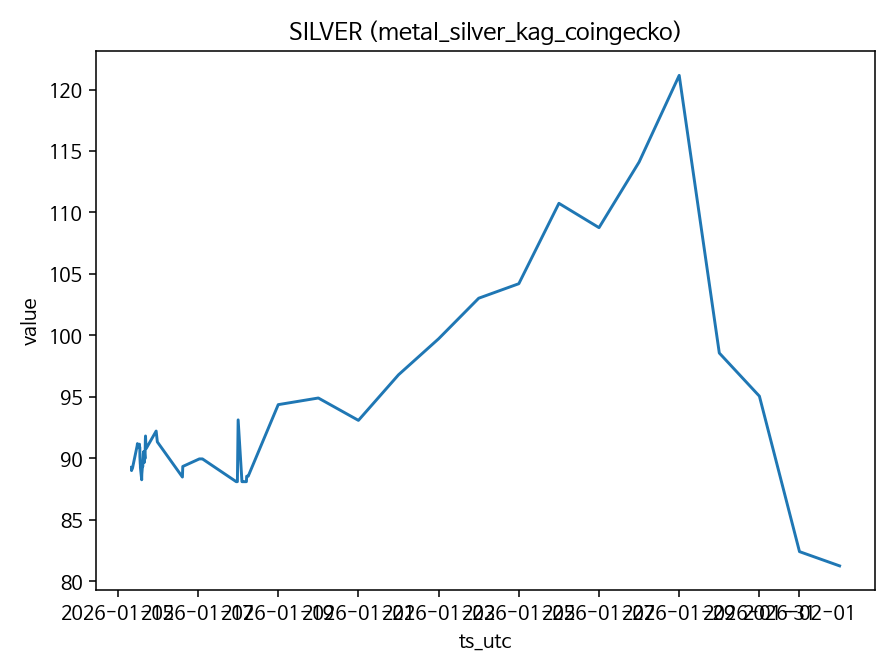
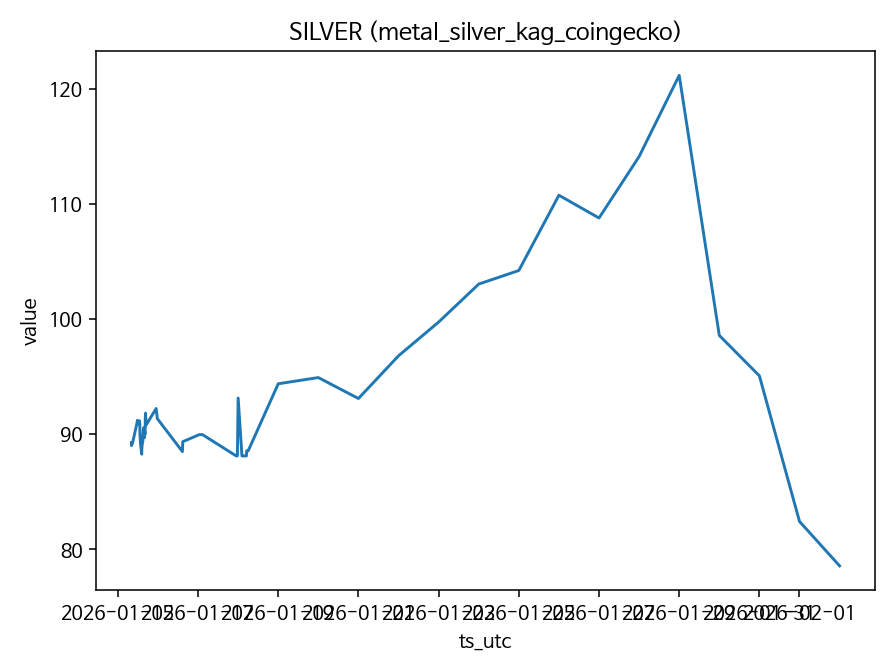
docs: Update generated docs from verification runs

diff --git a/data/issuesignal/index.html b/data/issuesignal/index.html
@@ -132,10 +132,10 @@
         <div>
             <div class="header-meta">
                 <span>DATA: 2026-02-02</span>
-                <span>RUN: 2026-02-02 13:45:30</span>
+                <span>RUN: 2026-02-02 13:10:00</span>
             </div>
             <div class="header-meta" style="margin-top:2px;">
-                <span>커밋: 90b3348</span>
+                <span>커밋: eaa2ca8</span>
                 <span>엔진: v2.5.1</span>
             </div>
         </div>

diff --git a/issuesignal/index.html b/issuesignal/index.html
@@ -132,10 +132,10 @@
         <div>
             <div class="header-meta">
                 <span>DATA: 2026-02-02</span>
-                <span>RUN: 2026-02-02 13:45:30</span>
+                <span>RUN: 2026-02-02 13:10:00</span>
             </div>
             <div class="header-meta" style="margin-top:2px;">
-                <span>커밋: 90b3348</span>
+                <span>커밋: eaa2ca8</span>
                 <span>엔진: v2.5.1</span>
             </div>
         </div>

diff --git a/data/reports/2026/02/02/decision_dashboard.md b/data/reports/2026/02/02/decision_dashboard.md
@@ -83,9 +83,9 @@
 - **Count**: 40
 - **Type Breakdown**: NEWS: 40
 - **Samples (Top 3)**:
-  - [NEWS] [속보]코스피 매도사이드카 발동, 5% 폭락해 5000선 무너져 - 경향신문 (Google_News_KR_Economy)
-  - [NEWS] 대출 막으니 “국평만 더 튀었다”… 강남 18억·강북 11억 ‘역대급’ [수민이가 궁금해요] - 세계일보 (Google_News_KR_Economy)
-  - [NEWS] 금, 은 원자재 가격 폭락과 비트코인 하락, 다음주 미국, 한국증시 전망 - 네이버 프리미엄콘텐츠 (Google_News_KR_Economy)
+  - [NEWS] 비트코인 급락에 트레저리 기업 주가 흔들…차기 연준 의장 ‘친코인’ 가능성에 세일러는 “더 산다” - 조선일보 (Google_News_KR_Economy)
+  - [NEWS] 서울 중소형 아파트값, 한강 이남에선 평균 18억 넘었다 - 경향신문 (Google_News_KR_Economy)
+  - [NEWS] 금·은 급락 부른 ‘케빈 워시 효과’…조기 금리인하 베팅 점화 - mstoday.co.kr (Google_News_KR_Economy)
 
 
 ### 🌱 TOPIC SEEDS (STRUCTURAL)
@@ -187,37 +187,26 @@
 
 | Fact Anchor | Structural Reason | Confidence |
 |---|---|---|
-| [속보]코스피 매도사이드카 발동, 5% 폭락해 5000선 무너져 - 경향신문 | Structural implication: '[속보]코스피 매도사이드카 발동, 5% 폭락해 5000선 무너져 - 경향신문' suggests a shift in NEWS dynamics. | LOW |
-| 대출 막으니 “국평만 더 튀었다”… 강남 18억·강북 11억 ‘역대급’ [수민이가 궁금해요] - 세계일보 | Structural implication: '대출 막으니 “국평만 더 튀었다”… 강남 18억·강북 11억 ‘역대급’ [수민이가 궁금해요] - 세계일보' suggests a shift in NEWS dynamics. | LOW |
-| 금, 은 원자재 가격 폭락과 비트코인 하락, 다음주 미국, 한국증시 전망 - 네이버 프리미엄콘텐츠 | Structural implication: '금, 은 원자재 가격 폭락과 비트코인 하락, 다음주 미국, 한국증시 전망 - 네이버 프리미엄콘텐츠' suggests a shift in NEWS dynamics. | LOW |
-| “큰손들은 이미 발 뺐다”…비트코인, 8만 달러도 무너진 이유 [잇슈 머니] - KBS 뉴스 | Structural implication: '“큰손들은 이미 발 뺐다”…비트코인, 8만 달러도 무너진 이유 [잇슈 머니] - KBS 뉴스' suggests a shift in NEWS dynamics. | LOW |
-| ‘워시 충격’에…코스피 확 밀리고, 환율은 1450원대로 급등 - 한겨레 | Structural implication: '‘워시 충격’에…코스피 확 밀리고, 환율은 1450원대로 급등 - 한겨레' suggests a shift in NEWS dynamics. | LOW |
+| 비트코인 급락에 트레저리 기업 주가 흔들…차기 연준 의장 ‘친코인’ 가능성에 세일러는 “더 산다” - 조선일보 | Structural implication: '비트코인 급락에 트레저리 기업 주가 흔들…차기 연준 의장 ‘친코인’ 가능성에 세일러는 “더 산다” - 조선일보' suggests a shift in NEWS dynamics. | LOW |
+| 서울 중소형 아파트값, 한강 이남에선 평균 18억 넘었다 - 경향신문 | Structural implication: '서울 중소형 아파트값, 한강 이남에선 평균 18억 넘었다 - 경향신문' suggests a shift in NEWS dynamics. | LOW |
+| 금·은 급락 부른 ‘케빈 워시 효과’…조기 금리인하 베팅 점화 - mstoday.co.kr | Structural implication: '금·은 급락 부른 ‘케빈 워시 효과’…조기 금리인하 베팅 점화 - mstoday.co.kr' suggests a shift in NEWS dynamics. | LOW |
+| 코스피·코스닥 동반 급락…환율 1,450원대로 - 연합뉴스TV | Structural implication: '코스피·코스닥 동반 급락…환율 1,450원대로 - 연합뉴스TV' suggests a shift in NEWS dynamics. | LOW |
+| “1월 주도주가 상반기 휩쓴다”…韓 반도체·자동차 ‘비중 확대’ - 매일경제 | Structural implication: '“1월 주도주가 상반기 휩쓴다”…韓 반도체·자동차 ‘비중 확대’ - 매일경제' suggests a shift in NEWS dynamics. | LOW |
 | 4일 만에 17% 폭등한 코스닥… 종목 대신 ‘레버리지’에 뭉칫돈 쏠린다 - 조선비즈 - Chosunbiz | Structural implication: '4일 만에 17% 폭등한 코스닥… 종목 대신 ‘레버리지’에 뭉칫돈 쏠린다 - 조선비즈 - Chosunbiz' suggests a shift in NEWS dynamics. | LOW |
+| ‘워시 충격’에…코스피 확 밀리고, 환율은 1450원대로 급등 - 한겨레 | Structural implication: '‘워시 충격’에…코스피 확 밀리고, 환율은 1450원대로 급등 - 한겨레' suggests a shift in NEWS dynamics. | LOW |
 | ‘지역별 전기요금’ 도입 방안 연내 마련…1분기 중 산업용 전기요금 개편 - 부산일보 | Structural implication: '‘지역별 전기요금’ 도입 방안 연내 마련…1분기 중 산업용 전기요금 개편 - 부산일보' suggests a shift in NEWS dynamics. | LOW |
 | "D램은 AI시대 완성할 황금나사"…지난달 수출 12.6조 사상 최대 - 한국경제 | Structural implication: '"D램은 AI시대 완성할 황금나사"…지난달 수출 12.6조 사상 최대 - 한국경제' suggests a shift in NEWS dynamics. | LOW |
 | 현대차, 러시아 공장 재매입 안 한다 - 매일경제 | Structural implication: '현대차, 러시아 공장 재매입 안 한다 - 매일경제' suggests a shift in NEWS dynamics. | LOW |
-| 코스피, 외국인 2조 던질 때 개인 투자자가 6조 받았다…TOP3 쏠림 - 연합인포맥스 | Structural implication: '코스피, 외국인 2조 던질 때 개인 투자자가 6조 받았다…TOP3 쏠림 - 연합인포맥스' suggests a shift in NEWS dynamics. | LOW |
-| 마운자로-러닝 열풍에 밀린 헬스장, 지난달에만 70곳 문닫아 - 동아일보 | Structural implication: '마운자로-러닝 열풍에 밀린 헬스장, 지난달에만 70곳 문닫아 - 동아일보' suggests a shift in NEWS dynamics. | LOW |
-| “전원 끄면 우린 사라지나” AI끼리 단톡방 만들었다 - 조선일보 | Structural implication: '“전원 끄면 우린 사라지나” AI끼리 단톡방 만들었다 - 조선일보' suggests a shift in NEWS dynamics. | LOW |
+| 인간은 구경만…AI끼리 주인 뒷담화 내뱉는 SNS ‘몰트북’ 등장 - 동아일보 | Structural implication: '인간은 구경만…AI끼리 주인 뒷담화 내뱉는 SNS ‘몰트북’ 등장 - 동아일보' suggests a shift in NEWS dynamics. | LOW |
 | '두쫀쿠' 철물점·이불집에서도 팔더니…결국 터질게 터졌다 - 한국경제 | Structural implication: ''두쫀쿠' 철물점·이불집에서도 팔더니…결국 터질게 터졌다 - 한국경제' suggests a shift in NEWS dynamics. | LOW |
-| 로또 1등 평균 당첨금 20억원…작년 판매 6.2조 역대 최대 - 연합뉴스TV | Structural implication: '로또 1등 평균 당첨금 20억원…작년 판매 6.2조 역대 최대 - 연합뉴스TV' suggests a shift in NEWS dynamics. | LOW |
+| 머스크도, 팀 쿡도 “반도체 부족” 토로…공급난 장기화하나 - 한겨레 | Structural implication: '머스크도, 팀 쿡도 “반도체 부족” 토로…공급난 장기화하나 - 한겨레' suggests a shift in NEWS dynamics. | LOW |
+| 아틀라스가 공장 들어오는 날, 한국사회는 준비돼 있나 - 경향신문 | Structural implication: '아틀라스가 공장 들어오는 날, 한국사회는 준비돼 있나 - 경향신문' suggests a shift in NEWS dynamics. | LOW |
+| 로또 맞아도 서울에 아파트 한 채 못 사... ‘인생 역전’ 옛말 - 조선일보 | Structural implication: '로또 맞아도 서울에 아파트 한 채 못 사... ‘인생 역전’ 옛말 - 조선일보' suggests a shift in NEWS dynamics. | LOW |
 | “사장님은 25만 원, 손님은 2만 원”…설 명절 ‘지갑’ 지키는 방법 [잇슈 머니] - KBS 뉴스 | Structural implication: '“사장님은 25만 원, 손님은 2만 원”…설 명절 ‘지갑’ 지키는 방법 [잇슈 머니] - KBS 뉴스' suggests a shift in NEWS dynamics. | LOW |
-| 쿠팡, 한국서 40조 벌지만 정작 미국 기업…“대기업 총수 지정 대상서도 빠져” - 매일경제 | Structural implication: '쿠팡, 한국서 40조 벌지만 정작 미국 기업…“대기업 총수 지정 대상서도 빠져” - 매일경제' suggests a shift in NEWS dynamics. | LOW |
 | 탈모, OLED 빛으로 92% 예방…"전임상 계획" - 지디넷코리아 | Structural implication: '탈모, OLED 빛으로 92% 예방…"전임상 계획" - 지디넷코리아' suggests a shift in NEWS dynamics. | LOW |
+| 쿠팡, 한국서 40조 벌지만 정작 미국 기업…“대기업 총수 지정 대상서도 빠져” - 매일경제 | Structural implication: '쿠팡, 한국서 40조 벌지만 정작 미국 기업…“대기업 총수 지정 대상서도 빠져” - 매일경제' suggests a shift in NEWS dynamics. | LOW |
 | 죽기 직전 주식 팔아…1000억원 상속세 소송 결말은 - 한국경제 | Structural implication: '죽기 직전 주식 팔아…1000억원 상속세 소송 결말은 - 한국경제' suggests a shift in NEWS dynamics. | LOW |
 | “무슨 돈으로 주식” “투자로 더 벌어”…5000피 시대의 ‘두 얼굴’ - 경향신문 | Structural implication: '“무슨 돈으로 주식” “투자로 더 벌어”…5000피 시대의 ‘두 얼굴’ - 경향신문' suggests a shift in NEWS dynamics. | LOW |
-| 기모노 입고 기아차 홍보한 독일 대리점… “한국 문화 이해도 낮아” - 조선일보 | Structural implication: '기모노 입고 기아차 홍보한 독일 대리점… “한국 문화 이해도 낮아” - 조선일보' suggests a shift in NEWS dynamics. | LOW |
-| iH, 도시개발군 최초 ‘ISO 30301’ 재인증 | Structural implication: 'iH, 도시개발군 최초 ‘ISO 30301’ 재인증' suggests a shift in NEWS dynamics. | LOW |
-| 인천경제청 송도컨벤시아, 역대 최대 실적 달성 | Structural implication: '인천경제청 송도컨벤시아, 역대 최대 실적 달성' suggests a shift in NEWS dynamics. | LOW |
-| SKT, 실전형으로 보안 매뉴얼 정비...인프라 협력사 보안도 강화 | Structural implication: 'SKT, 실전형으로 보안 매뉴얼 정비...인프라 협력사 보안도 강화' suggests a shift in NEWS dynamics. | LOW |
-| KT, 경남 양산 원동습지에 자동 기상관측 장비 설치...환경 연구 지원 | Structural implication: 'KT, 경남 양산 원동습지에 자동 기상관측 장비 설치...환경 연구 지원' suggests a shift in NEWS dynamics. | LOW |
-| 아워홈, 급식업계 최초로 ‘블루리본 서베이’ 인증 획득 | Structural implication: '아워홈, 급식업계 최초로 ‘블루리본 서베이’ 인증 획득' suggests a shift in NEWS dynamics. | LOW |
-| 브루노에 ‘볼뽀뽀’ 그래미 오프닝 로제…‘올해의 레코드’ 수상 불발 | Structural implication: '브루노에 ‘볼뽀뽀’ 그래미 오프닝 로제…‘올해의 레코드’ 수상 불발' suggests a shift in NEWS dynamics. | LOW |
-| AI 해고인가, AI 핑계인가…‘AI 워싱’ 논란 | Structural implication: 'AI 해고인가, AI 핑계인가…‘AI 워싱’ 논란' suggests a shift in NEWS dynamics. | LOW |
-| 워시쇼크발 블랙먼데이에 코스피 사이드카 발동, 4940선도 붕괴 | Structural implication: '워시쇼크발 블랙먼데이에 코스피 사이드카 발동, 4940선도 붕괴' suggests a shift in NEWS dynamics. | LOW |
-| 슈퍼볼 광고 단가 사상 최고치…TV광고로 눈 돌리는 기업들 | Structural implication: '슈퍼볼 광고 단가 사상 최고치…TV광고로 눈 돌리는 기업들' suggests a shift in NEWS dynamics. | LOW |
-| [속보] 로제, 그래미 ‘올해의 노래’·‘올해의 레코드’ 수상 불발 | Structural implication: '[속보] 로제, 그래미 ‘올해의 노래’·‘올해의 레코드’ 수상 불발' suggests a shift in NEWS dynamics. | LOW |
-| 경기도, 올해 신규공무원 5041명 뽑는다 | Structural implication: '경기도, 올해 신규공무원 5041명 뽑는다' suggests a shift in NEWS dynamics. | LOW |
 | ㈜브릿지3, 생성형 AI 최적화(GEO) 브랜딩 플랫폼 ‘브릿지오’ 핵심기술 특허 출원 | Structural implication: '㈜브릿지3, 생성형 AI 최적화(GEO) 브랜딩 플랫폼 ‘브릿지오’ 핵심기술 특허 출원' suggests a shift in NEWS dynamics. | LOW |
 | [속보] 코스피 5000선 깨져…매도 사이드카 발동 | Structural implication: '[속보] 코스피 5000선 깨져…매도 사이드카 발동' suggests a shift in NEWS dynamics. | LOW |
 | “고기·계란에 김까지, 안 오르는 게 없네”…설 앞두고 밥상 물가 ‘비상’ | Structural implication: '“고기·계란에 김까지, 안 오르는 게 없네”…설 앞두고 밥상 물가 ‘비상’' suggests a shift in NEWS dynamics. | LOW |
@@ -227,6 +216,17 @@
 | ‘한국판 딥테크’의 반란… 설립 4년 만에 미국 나스닥 뚫었다 | Structural implication: '‘한국판 딥테크’의 반란… 설립 4년 만에 미국 나스닥 뚫었다' suggests a shift in NEWS dynamics. | LOW |
 | “요즘 모텔 갈 바엔 호텔 간다고 하더만”...‘러브호텔’ 사라진 이유 | Structural implication: '“요즘 모텔 갈 바엔 호텔 간다고 하더만”...‘러브호텔’ 사라진 이유' suggests a shift in NEWS dynamics. | LOW |
 | “나랑 눈마주쳤는데 기절”...꽁꽁 얼어붙은 이구아나들, 어쩌나 | Structural implication: '“나랑 눈마주쳤는데 기절”...꽁꽁 얼어붙은 이구아나들, 어쩌나' suggests a shift in NEWS dynamics. | LOW |
+| 현대모비스, 지난해 해외 수주 13.2조원…“목표 23% 초과 달성” | Structural implication: '현대모비스, 지난해 해외 수주 13.2조원…“목표 23% 초과 달성”' suggests a shift in NEWS dynamics. | LOW |
+| [Travel] 청정 동해안의 숨은 보석을 찾아서... 동해의 끝, 새로운 시작 울진 여행 | Structural implication: '[Travel] 청정 동해안의 숨은 보석을 찾아서... 동해의 끝, 새로운 시작 울진 여행' suggests a shift in NEWS dynamics. | LOW |
+| 통신 멤버십으로 건강검진 할인돼? 나만 몰랐나?…최대 49% 된다는데 | Structural implication: '통신 멤버십으로 건강검진 할인돼? 나만 몰랐나?…최대 49% 된다는데' suggests a shift in NEWS dynamics. | LOW |
+| 임이자 “장동혁 지도부 재신임, 당원 투표하자…100% 수용 전제로” | Structural implication: '임이자 “장동혁 지도부 재신임, 당원 투표하자…100% 수용 전제로”' suggests a shift in NEWS dynamics. | LOW |
+| “포켓몬 덕후들 이건 못 참지”…레고코리아, 피카츄·이브이 등 사전 예약 | Structural implication: '“포켓몬 덕후들 이건 못 참지”…레고코리아, 피카츄·이브이 등 사전 예약' suggests a shift in NEWS dynamics. | LOW |
+| 전통 식문화 재해석한 뼈요리 전문점 ‘도문장’ 브랜드 런칭 | Structural implication: '전통 식문화 재해석한 뼈요리 전문점 ‘도문장’ 브랜드 런칭' suggests a shift in NEWS dynamics. | LOW |
+| SNS 지시 받아 야바·필로폰 밀수…진주서, 외국인 마약조직 일망타진 | Structural implication: 'SNS 지시 받아 야바·필로폰 밀수…진주서, 외국인 마약조직 일망타진' suggests a shift in NEWS dynamics. | LOW |
+| “대통령 지지율까지 흔들릴 수도”…민주 내부서 ‘합당’ 철회 요구 분출 | Structural implication: '“대통령 지지율까지 흔들릴 수도”…민주 내부서 ‘합당’ 철회 요구 분출' suggests a shift in NEWS dynamics. | LOW |
+| [속보] 경찰, 세종호텔 노조원 등 10여명 체포·연행 | Structural implication: '[속보] 경찰, 세종호텔 노조원 등 10여명 체포·연행' suggests a shift in NEWS dynamics. | LOW |
+| 애물단지에서 효자로…‘귀하신 몸’ 낸드, AI 열풍 타고 환골탈태 | Structural implication: '애물단지에서 효자로…‘귀하신 몸’ 낸드, AI 열풍 타고 환골탈태' suggests a shift in NEWS dynamics. | LOW |
+| ‘통일교 1억 수수’ 권성동, 1심 징역 2년 판결에 항소 | Structural implication: '‘통일교 1억 수수’ 권성동, 1심 징역 2년 판결에 항소' suggests a shift in NEWS dynamics. | LOW |
 
 
 ## 🚫 WHY NO SPEAK (Today)

diff --git a/data/reports/2026/02/02/daily_brief.md b/data/reports/2026/02/02/daily_brief.md
@@ -38,6 +38,8 @@ Historical context:
 - [HIGH] M_AND_A_DISP: data/features/anomalies/2026/02/02/struct_dart_disposal.json L2 Signal (base=6.00, final_m=12.30) | Mom: FLAT (slope=0.00) -> x1.0 | App7d=7
 - [MED] KOR_CPI: data/features/anomalies/2026/02/02/inflation_kor_cpi_ecos.json L1 Signal (base=3.00, final_m=6.15) | Mom: FLAT (slope=0.00) -> x1.0 | App7d=7
 - [MED] FED_FUNDS: data/features/anomalies/2026/02/02/rates_fed_funds_fred.json L1 Signal (base=3.00, final_m=6.15) | Mom: FLAT (slope=0.00) -> x1.0 | App7d=7
+- [MED] SILVER: data/features/anomalies/2026/02/02/metal_silver_kag_coingecko.json L1 Signal (base=3.00, final_m=4.80) | Mom: FLAT (slope=0.00) -> x1.0 | App7d=4
+- [MED] SILVER: data/features/anomalies/2026/02/02/metal_silver_kag_coingecko.json L1 Signal (base=3.00, final_m=4.80) | Mom: FLAT (slope=0.00) -> x1.0 | App7d=4
 - [LOW] US10Y: data/features/anomalies/2026/02/02/rates_us10y_fred.json (Normal) (base=0.00, final_m=0.00) | Mom: FLAT (slope=0.00) -> x1.0 | App7d=7
 - [LOW] VIX: data/features/anomalies/2026/02/02/risk_vix_fred.json (Normal) (base=0.00, final_m=0.00) | Mom: FLAT (slope=0.00) -> x1.0 | App7d=7
 - [LOW] SPX: data/features/anomalies/2026/02/02/index_spx_fred.json (Normal) (base=0.00, final_m=0.00) | Mom: FLAT (slope=0.00) -> x1.0 | App7d=3
@@ -46,8 +48,6 @@ Historical context:
 - [LOW] US02Y: data/features/anomalies/2026/02/02/rates_us02y_fred.json (Normal) (base=0.00, final_m=0.00) | Mom: FLAT (slope=0.00) -> x1.0 | App7d=7
 - [LOW] WTI: data/features/anomalies/2026/02/02/comm_wti_fred.json (Normal) (base=0.00, final_m=0.00) | Mom: FLAT (slope=0.00) -> x1.0 | App7d=7
 - [LOW] GOLD: data/features/anomalies/2026/02/02/metal_gold_paxg_coingecko.json (Normal) (base=0.00, final_m=0.00) | Mom: FLAT (slope=0.00) -> x1.0 | App7d=4
-- [LOW] SILVER: data/features/anomalies/2026/02/02/metal_silver_kag_coingecko.json (Normal) (base=0.00, final_m=0.00) | Mom: FLAT (slope=0.00) -> x1.0 | App7d=4
-- [LOW] SILVER: data/features/anomalies/2026/02/02/metal_silver_kag_coingecko.json (Normal) (base=0.00, final_m=0.00) | Mom: FLAT (slope=0.00) -> x1.0 | App7d=4
 - [LOW] KOR_RATE: data/features/anomalies/2026/02/02/rates_kor_base_rate_ecos.json (Normal) (base=0.00, final_m=0.00) | Mom: FLAT (slope=0.00) -> x1.0 | App7d=7
 - [LOW] USDKRW_ECOS: data/features/anomalies/2026/02/02/fx_usdkrw_ecos.json (Normal) (base=0.00, final_m=0.00) | Mom: FLAT (slope=0.00) -> x1.0 | App7d=3
 - [LOW] UNRATE: data/features/anomalies/2026/02/02/employment_unrate_fred.json (Normal) (base=0.00, final_m=0.00) | Mom: FLAT (slope=0.00) -> x1.0 | App7d=7
@@ -74,7 +74,7 @@ Affected: derived_corr_btc_spx_30d, derived_corr_usdkrw_us10y_30d, struct_krx_fo
 
 ## ENGINE 2: ANCHOR TOPIC (Narrative-Top Down)
 - **Topic:** [Unknown (Single Axis)] Hybrid-driven
-- **Rationale:** Anchor Logic: Statistical Deviation Z=2.18 (No Cluster) (Gap Status: Insufficient Evidence for L3/L4)
+- **Rationale:** Anchor Logic: Statistical Deviation Z=2.45 (No Cluster) (Gap Status: Insufficient Evidence for L3/L4)
 - Prompt: 현재 Regime 및 데이터 상태를 고려할 때, 이 주제를 오늘 다룰 가치가 있다고 판단하십니까?
 
 ## Content Topic (Topic Decision Gate)
@@ -93,5 +93,5 @@ Affected: derived_corr_btc_spx_30d, derived_corr_usdkrw_us10y_30d, struct_krx_fo
 - Handoff reason: 콘텐츠 후보로는 충분하나, Structural 엔진에 넘길 만큼 축 결합/증거가 부족.
 
 ## TOPIC CANDIDATE SNAPSHOT
-Gate Filter Result: 11 candidate(s) survived survival rules.
+Gate Filter Result: 10 candidate(s) survived survival rules.
 No automatic selection performed. See Dashboard for details.

diff --git a/data/reports/2026/02/02/data_snapshot.md b/data/reports/2026/02/02/data_snapshot.md
@@ -1,6 +1,6 @@
 # Data Snapshot
 
-- ts_utc: `2026-02-02T13:45:24Z`
+- ts_utc: `2026-02-02T13:09:53Z`
 - ymd_utc: `2026/02/02`
 - enabled_datasets: `32`
 
@@ -8,7 +8,7 @@
 
 | report_key | dataset_id | status_today | rows | first_ts_utc | last_ts_utc | last_7d_rows | last_30d_rows | ok_7d | skipped_7d | fail_7d | curated_path | chart_png |
 |---|---|---:|---:|---|---|---:|---:|---:|---:|---:|---|---|
-| BTCUSD | crypto_btc_usd_spot_coingecko | OK | 335 | 2026-01-15T07:32:29Z | 2026-02-02T13:44:35Z | 136 | 335 | 7 | 0 | 0 | data/curated/crypto/btc_usd.csv | [png](data/reports/2026/02/02/charts/crypto_btc_usd_spot_coingecko.png) |
+| BTCUSD | crypto_btc_usd_spot_coingecko | OK | 334 | 2026-01-15T07:32:29Z | 2026-02-02T13:09:03Z | 140 | 334 | 7 | 0 | 0 | data/curated/crypto/btc_usd.csv | [png](data/reports/2026/02/02/charts/crypto_btc_usd_spot_coingecko.png) |
 | CPI_USA | inflation_cpi_fred | OK | 947 | 1947-01-01T00:00:00Z | 2025-12-01T00:00:00Z | 0 | 0 | 7 | 0 | 0 | data/curated/inflation/cpi_usa.csv | [png](data/reports/2026/02/02/charts/inflation_cpi_fred.png) |
 | FED_FUNDS | rates_fed_funds_fred | OK | 858 | 1954-07-01T00:00:00Z | 2025-12-01T00:00:00Z | 0 | 0 | 7 | 0 | 0 | data/curated/rates/fed_funds.csv | [png](data/reports/2026/02/02/charts/rates_fed_funds_fred.png) |
 | FIN_STRESS | risk_financial_stress_fred | OK | 1463 | 1993-12-31T00:00:00Z | 2022-01-07T00:00:00Z | 0 | 0 | 7 | 0 | 0 | data/curated/risk/financial_stress_usa.csv | [png](data/reports/2026/02/02/charts/risk_financial_stress_fred.png) |
@@ -17,7 +17,7 @@
 | HY_SPREAD | credit_hy_spread_fred | OK | 7592 | 1996-12-31T00:00:00Z | 2026-01-29T00:00:00Z | 3 | 19 | 7 | 0 | 0 | data/curated/credit/hy_spread_usa.csv | [png](data/reports/2026/02/02/charts/credit_hy_spread_fred.png) |
 | KOR_CPI | inflation_kor_cpi_ecos | OK | 60 | 2021-02-01T00:00:00Z | 2025-12-01T00:00:00Z | 0 | 0 | 7 | 0 | 0 | data/curated/ecos/inflation/korea_cpi.csv | [png](data/reports/2026/02/02/charts/inflation_kor_cpi_ecos.png) |
 | KOR_RATE | rates_kor_base_rate_ecos | OK | 60 | 2021-02-01T00:00:00Z | 2025-12-01T00:00:00Z | 0 | 0 | 7 | 0 | 0 | data/curated/ecos/rates/korea_base_rate.csv | [png](data/reports/2026/02/02/charts/rates_kor_base_rate_ecos.png) |
-| KOSPI | index_kospi_stooq | OK | 334 | 2026-01-15T07:32:40Z | 2026-02-02T13:44:38Z | 136 | 334 | 7 | 0 | 0 | data/curated/indices/kospi.csv | [png](data/reports/2026/02/02/charts/index_kospi_stooq.png) |
+| KOSPI | index_kospi_stooq | OK | 333 | 2026-01-15T07:32:40Z | 2026-02-02T13:09:06Z | 140 | 333 | 7 | 0 | 0 | data/curated/indices/kospi.csv | [png](data/reports/2026/02/02/charts/index_kospi_stooq.png) |
 | M2_USA | liquidity_m2_fred | OK | 804 | 1959-01-01T00:00:00Z | 2025-12-01T00:00:00Z | 0 | 0 | 7 | 0 | 0 | data/curated/liquidity/m2_usa.csv | [png](data/reports/2026/02/02/charts/liquidity_m2_fred.png) |
 | M_AND_A_CB | struct_dart_cb_bw | OK | 1 | 2026-01-22T18:00:00Z | 2026-01-22T18:00:00Z | 0 | 1 | 7 | 0 | 0 | data/curated/structural/cb_bw.csv | [png](data/reports/2026/02/02/charts/struct_dart_cb_bw.png) |
 | M_AND_A_DISP | struct_dart_disposal | OK | 2 | 2026-01-22T18:00:00Z | 2026-01-24T18:00:00Z | 0 | 2 | 7 | 0 | 0 | data/curated/structural/disposal.csv | [png](data/reports/2026/02/02/charts/struct_dart_disposal.png) |

diff --git a/OBSERVATION_LOG.md b/OBSERVATION_LOG.md
@@ -161,4 +161,3 @@
 - 2026-02-02T12:28:33+09:00 | engine_run | status=SUCCESS | run_log=data/reports/2026/02/02/run_log.md
 - 2026-02-02T12:41:14+09:00 | engine_run | status=SUCCESS | run_log=data/reports/2026/02/02/run_log.md
 - 2026-02-02T13:09:54+09:00 | engine_run | status=SUCCESS | run_log=data/reports/2026/02/02/run_log.md
-- 2026-02-02T13:45:24+09:00 | engine_run | status=SUCCESS | run_log=data/reports/2026/02/02/run_log.md

diff --git a/data/reports/2026/02/02/run_log.md b/data/reports/2026/02/02/run_log.md
@@ -1,7 +1,7 @@
 # Run Log
 
-- started_utc: 2026-02-02T13:44:35+09:00
-- finished_utc: 2026-02-02T13:45:24+09:00
+- started_utc: 2026-02-02T13:09:03+09:00
+- finished_utc: 2026-02-02T13:09:54+09:00
 - status: SUCCESS
 
 ## details
